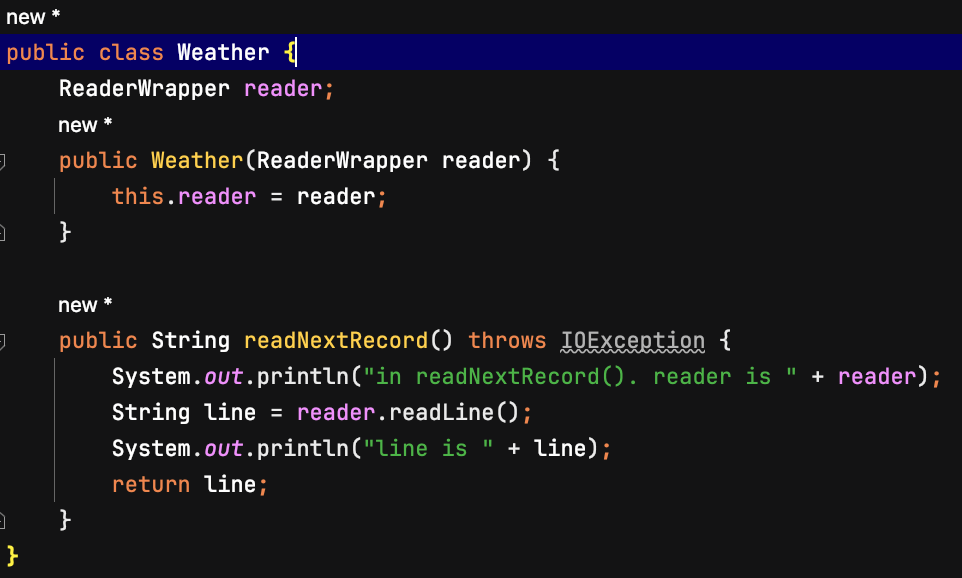
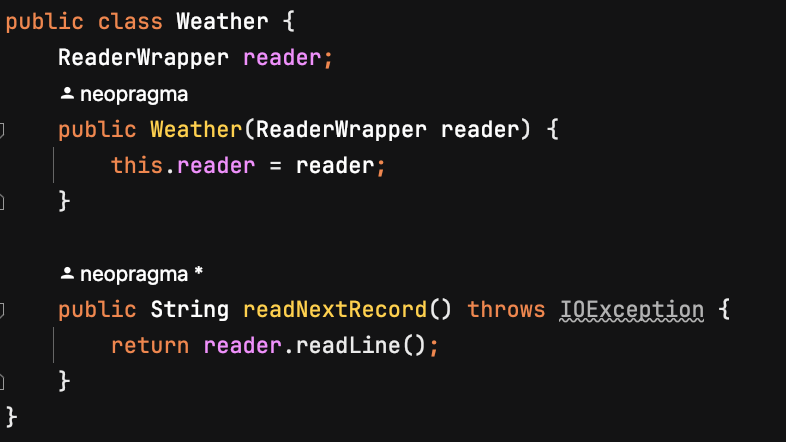
Updated image

diff --git a/iteration2-sociabletestsjava/src/main/java/com/neopragma/withmocks/v1/Weather.java b/iteration2-sociabletestsjava/src/main/java/com/neopragma/withmocks/v1/Weather.java
@@ -10,9 +10,6 @@ public class Weather {
     }
 
     public String readNextRecord() throws IOException {
-        System.out.println("in readNextRecord(). reader is " + reader);
-        String line = reader.readLine();
-        System.out.println("line is " + line);
-        return line;
+        return reader.readLine();
     }
 }

diff --git a/i2-java-walkthrough.md b/i2-java-walkthrough.md
@@ -115,10 +115,10 @@ Here's what I ended up with:
 ![WeatherTest class](images/i2/i2-java-weathertest-1.png)
 
 
-
-
-
 ## Version using Nullables
+
+Let's see how the above compares with using a Nullable with an Embedded Stub. 
+
 
 
 
